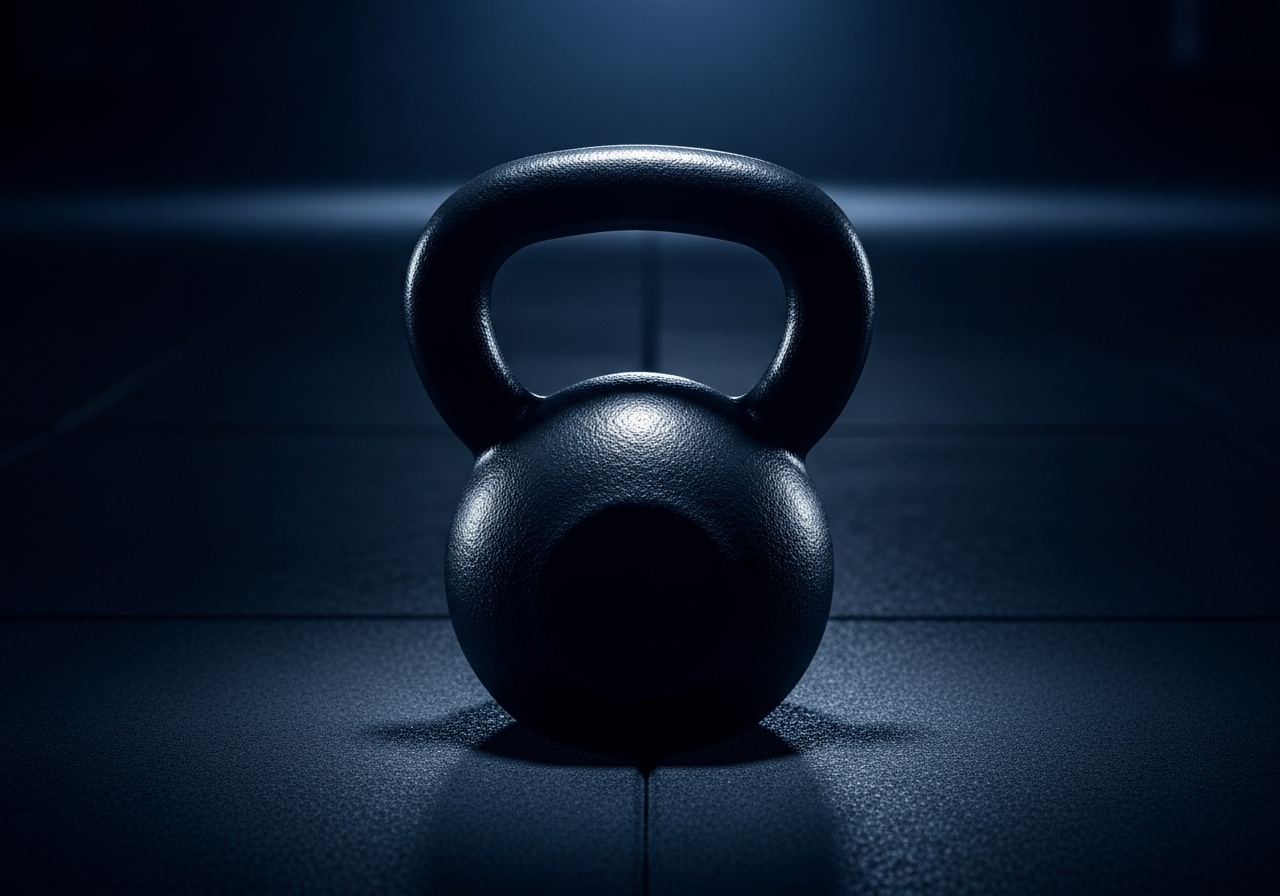
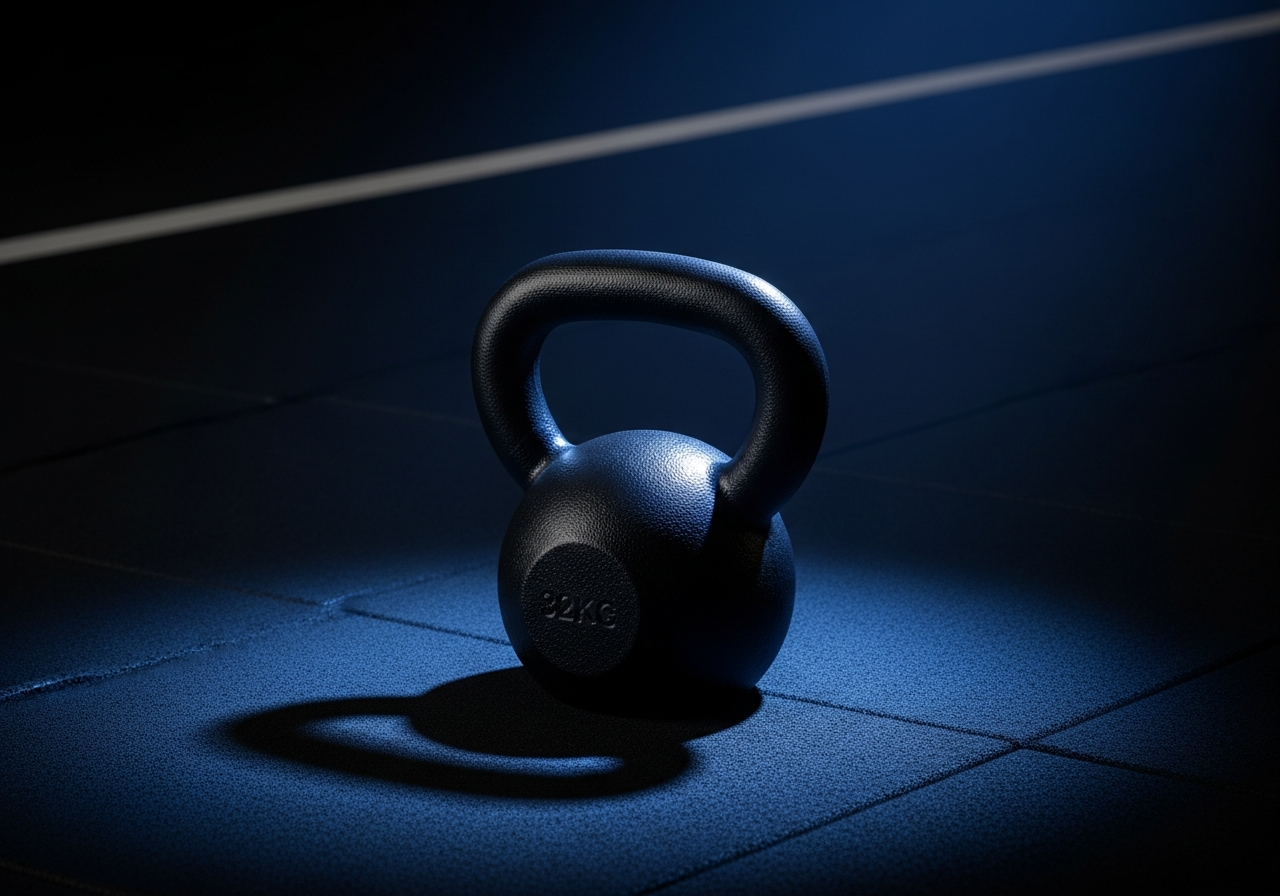
Restore original navy blue and white color scheme
Reverts CSS variables and regenerates image assets to the original navy and white color scheme, updating primary, secondary, and accent colors.

Replit-Commit-Author: Agent
Replit-Commit-Session-Id: 21a3ca37-3f05-4fac-a395-9c90b03e3cf0
Replit-Commit-Checkpoint-Type: full_checkpoint
Replit-Commit-Event-Id: b151466a-2fe7-427c-8705-db0362c54c6e
Replit-Commit-Screenshot-Url: https://storage.googleapis.com/screenshot-production-us-central1/91893585-1db8-4c73-9b64-2bbeaca02c0e/21a3ca37-3f05-4fac-a395-9c90b03e3cf0/GqDF429
Replit-Helium-Checkpoint-Created: true

diff --git a/client/src/index.css b/client/src/index.css
@@ -35,69 +35,69 @@
 :root {
   --radius: 0.5rem;
   
-  /* Momentum Wellness Brand Colors: Red & Black */
-  /* Red: #E11D48 (Tailwind Rose 600) -> HSL: 347 77% 50% */
-  /* Black: #000000 -> HSL: 0 0% 0% */
+  /* Momentum Wellness Brand Colors: Navy Blue & White */
+  /* Navy Blue: #0B1F3B -> HSL: 215 69% 14% */
+  /* White: #FFFFFF -> HSL: 0 0% 100% */
   
   --background: 0 0% 100%;
-  --foreground: 0 0% 0%;
+  --foreground: 215 69% 14%;
   
   --card: 0 0% 100%;
-  --card-foreground: 0 0% 0%;
+  --card-foreground: 215 69% 14%;
   
   --popover: 0 0% 100%;
-  --popover-foreground: 0 0% 0%;
+  --popover-foreground: 215 69% 14%;
   
-  /* Primary is Black */
-  --primary: 0 0% 0%;
+  /* Primary is Navy */
+  --primary: 215 69% 14%;
   --primary-foreground: 0 0% 100%;
   
-  /* Accent/Highlight is Red */
-  --accent: 347 77% 50%;
-  --accent-foreground: 0 0% 100%;
+  /* Secondary is a light blue/gray for subtle backgrounds */
+  --secondary: 215 20% 96%;
+  --secondary-foreground: 215 69% 14%;
   
-  --secondary: 0 0% 96%;
-  --secondary-foreground: 0 0% 0%;
+  --muted: 215 20% 96%;
+  --muted-foreground: 215 20% 40%;
   
-  --muted: 0 0% 96%;
-  --muted-foreground: 0 0% 40%;
+  --accent: 215 20% 96%;
+  --accent-foreground: 215 69% 14%;
   
   --destructive: 0 84% 60%;
   --destructive-foreground: 0 0% 100%;
 
-  --border: 0 0% 90%;
-  --input: 0 0% 90%;
-  --ring: 347 77% 50%;
+  --border: 215 20% 90%;
+  --input: 215 20% 90%;
+  --ring: 215 69% 14%;
 }
 
 .dark {
-  --background: 0 0% 0%;
+  --background: 215 69% 10%;
   --foreground: 0 0% 100%;
   
-  --card: 0 0% 5%;
+  --card: 215 69% 12%;
   --card-foreground: 0 0% 100%;
   
-  --popover: 0 0% 5%;
+  --popover: 215 69% 12%;
   --popover-foreground: 0 0% 100%;
   
   --primary: 0 0% 100%;
-  --primary-foreground: 0 0% 0%;
+  --primary-foreground: 215 69% 14%;
   
-  --secondary: 0 0% 10%;
+  --secondary: 215 30% 20%;
   --secondary-foreground: 0 0% 100%;
   
-  --muted: 0 0% 15%;
-  --muted-foreground: 0 0% 70%;
+  --muted: 215 30% 20%;
+  --muted-foreground: 215 20% 70%;
   
-  --accent: 347 77% 50%;
+  --accent: 215 30% 20%;
   --accent-foreground: 0 0% 100%;
   
   --destructive: 0 62% 30%;
   --destructive-foreground: 0 0% 100%;
   
-  --border: 0 0% 15%;
-  --input: 0 0% 15%;
-  --ring: 347 77% 50%;
+  --border: 215 30% 20%;
+  --input: 215 30% 20%;
+  --ring: 215 20% 80%;
 }
 
 @layer base {